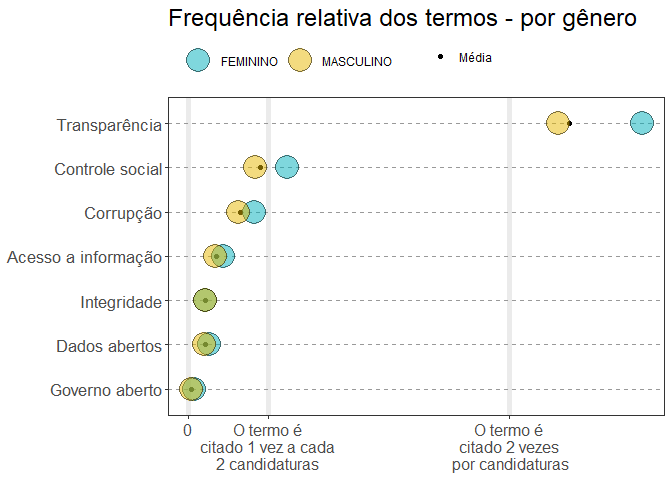
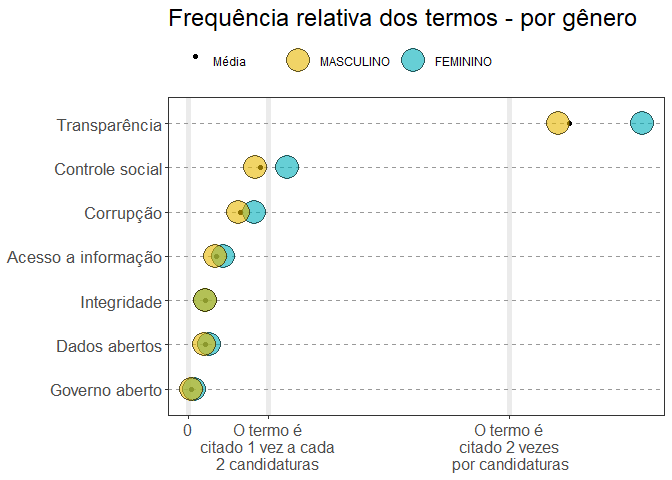
update report & nmds

diff --git a/report/visualizacoes.md b/report/visualizacoes.md
@@ -54,7 +54,8 @@ propostas1 %>%
 ## Prevalência dos termos
 
 ``` r
-propostas2 %>% 
+
+termos_resumo <- propostas2 %>% 
   select(-texto_tidy) %>% 
   pivot_longer(-c(index:nm_urna_candidato), names_to = "termo", values_to = "qtd_mencoes") %>% 
   group_by(termo) %>% 
@@ -66,14 +67,21 @@ propostas2 %>%
       str_to_sentence() %>% 
       str_replace("cao", "ção") %>% 
       str_replace("en", "ên") %>% 
-      fct_reorder(qtd_mencoes)
-  ) %>% 
+      fct_reorder(qtd_mencoes),
+   per = qtd_mencoes / sum(qtd_mencoes)
+
+  ) 
+
+lbl <- paste0(format(termos_resumo$qtd_mencoes, decimal.mark = ",", big.mark = ".", justify = "centre"),
+               " (",  scales::percent(termos_resumo$per, justify = "centre", accuracy = 1), ")")
+
+termos_resumo %>% 
   ggplot(aes(x = termo, y = qtd_mencoes)) + 
-  geom_col() + 
-  geom_text(aes(label = format(qtd_mencoes, big.mark = ".", decimal = ",")), hjust = -.2) +
+  geom_col(fill = "#00AFBB", color = "black") + 
+  geom_text(aes(label = lbl), hjust = -.1) +
   scale_y_continuous(breaks = seq(0,30000, 10000),
                      labels = format(seq(0,30000, 10000), decimal.mark = ",", big.mark = "."),
-                     limits = c(0, 40000)) +
+                     limits = c(0, 50000)) +
   coord_flip() +
   labs(x = NULL, y = NULL, title = "Quantidade de menções de cada termo em todas as candidaturas") +
   theme_bw() + 
@@ -120,8 +128,6 @@ pivot_termos <- propostas2 %>%
 
 termo <- pivot_termos %>% distinct(termo) %>% pull()
 
-
-
 plot_freq_termos <- function(token) {
   
   pivot_termos %>% 
@@ -162,7 +168,7 @@ p2 <- map(termo[3:4], plot_freq_termos) %>%
   theme(legend.position = 'none')
 
 p1 / p2 + 
-  plot_annotation(title = 'Frequência relativa dos termos, por partido') & 
+  plot_annotation(title = 'Frequência relativa dos termos - por partido') & 
   theme(plot.title = element_text(hjust = .5, vjust = .5, size = 18, face = "bold"))
 ```
 
@@ -180,7 +186,7 @@ p4 <- map(termo[7], plot_freq_termos) %>%
 
 (p3 + p4) + 
   plot_layout(nrow = 2) +
-  plot_annotation(title = 'Frequência relativa dos termos, por partido') & 
+  plot_annotation(title = 'Frequência relativa dos termos - por partido') & 
   theme(plot.title = element_text(hjust = .5, vjust = .5, size = 18, face = "bold"))
 ```
 
@@ -274,7 +280,7 @@ genero_freq %>%
   geom_hline(aes(yintercept = termo), lty = 2, color = "gray60") +
   # geom_vline(aes(xintercept = .5), color = "gray60") +
   geom_point(aes(x = freq_mencoes_termo, color = "Média")) +
-  geom_point(aes(fill = ds_genero), shape = 21, alpha = .5, size = 8) +
+  geom_point(aes(fill = ds_genero), shape = 21, alpha = .6, size = 8) +
   scale_color_manual(values = c("Média" = "black")) +
   scale_x_continuous(breaks = c(0, .5,  2),
                      labels = c(
@@ -298,7 +304,8 @@ genero_freq %>%
         plot.title = element_text(size = 18),
         legend.justification = c(0,1),
         axis.text.y = element_text(size = 13),
-        axis.text.x = element_text(size = 12))
+        axis.text.x = element_text(size = 12)) +
+  guides(color = guide_legend(label.vjust = .2), fill = guide_legend(reverse = T))
 ```
 
 <img src="visualizacoes_files/figure-gfm/unnamed-chunk-9-1.png" style="display: block; margin: auto;" />
